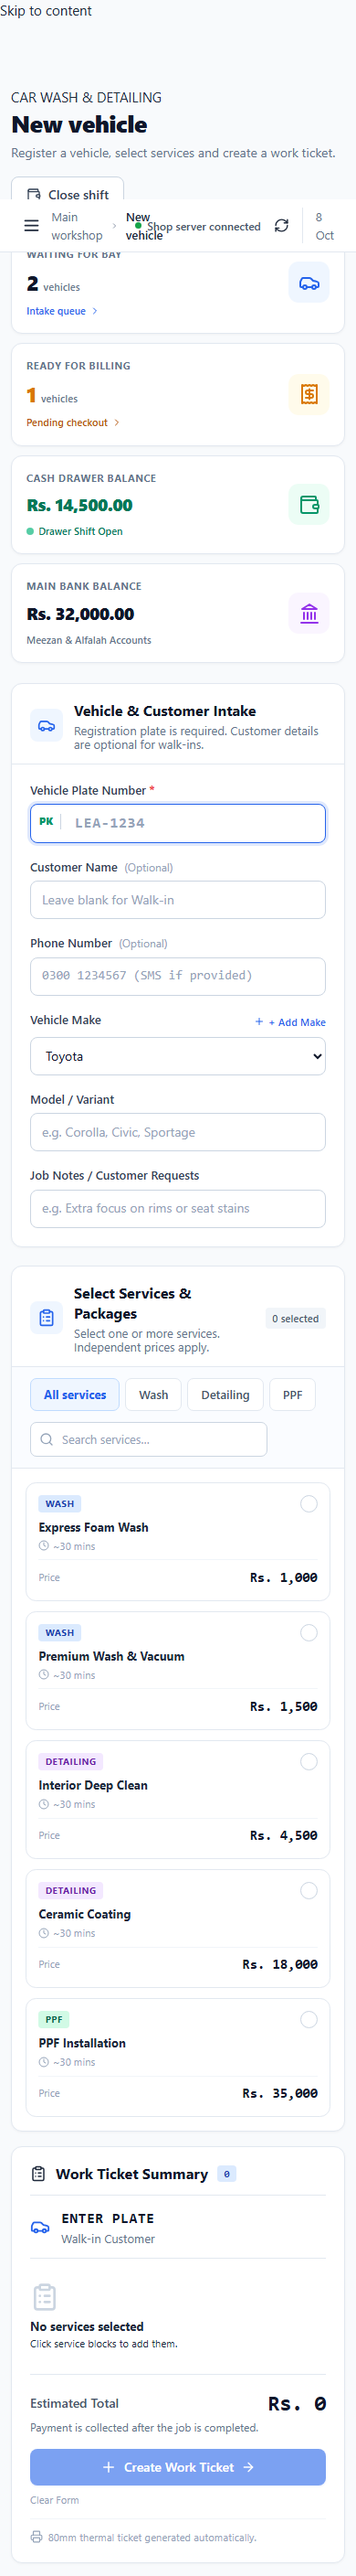
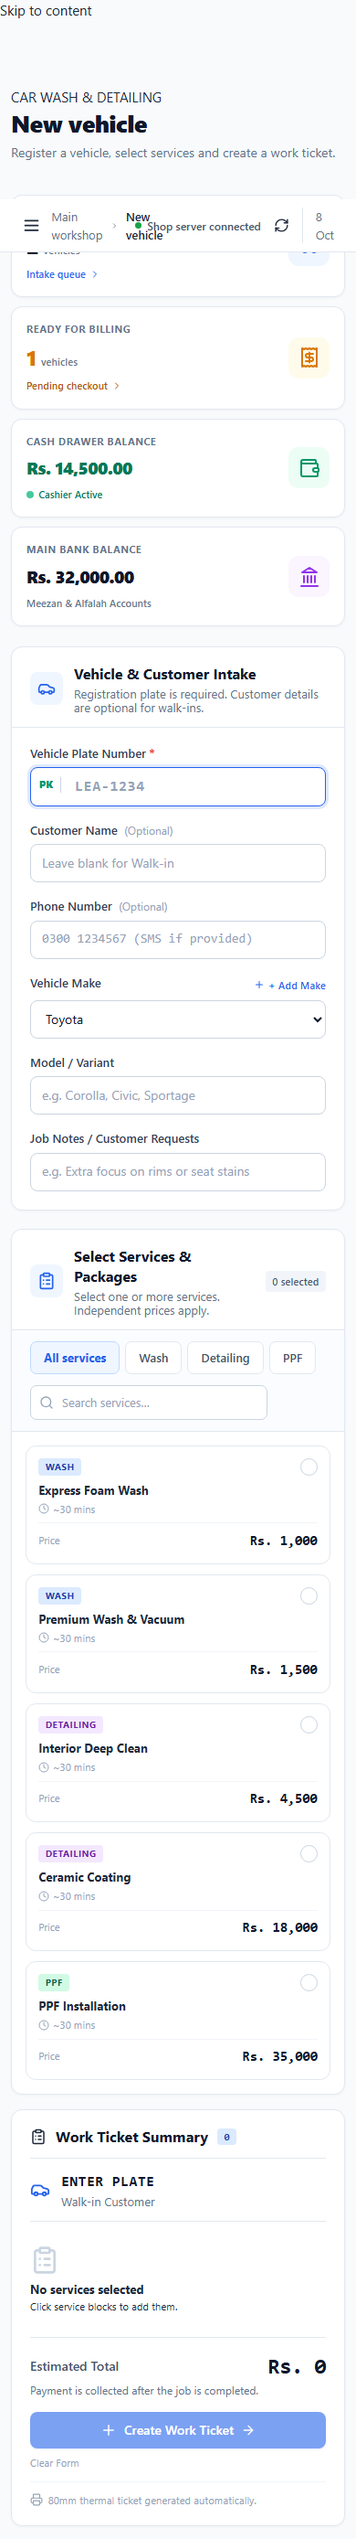
feat: simplify to single cashier mode, eliminate shift opening/closing popups and buttons

diff --git a/client/src/App.jsx b/client/src/App.jsx
@@ -70,7 +70,7 @@ export default function App() {
         bank: accounts.find((a) => a.account_type === 'Main_Bank')?.current_balance ?? 0,
         queued: bayRes.data.queue?.length || 0, ready: bayRes.data.ready_for_billing?.length || 0, register });
       setLastSync(new Date()); setSyncState('online');
-      setIsRegisterModalOpen(Boolean(isCashier && register && !register.is_open));
+      setIsRegisterModalOpen(false);
     } catch {
       if (requestRole === roleRef.current) setSyncState('offline');
     } finally { syncInFlight.current = false; }
@@ -98,7 +98,7 @@ export default function App() {
       <div className="app-workspace">
         <header className="app-topbar"><div className="flex items-center gap-3 min-w-0"><button className="icon-button mobile-only" aria-label="Open navigation" onClick={() => setMobileNav(true)}><Menu size={21} /></button><span className="breadcrumb">Main workshop <ChevronRight size={14} /> <strong>{page.title}</strong></span></div><div className="topbar-actions"><span className={`connection ${syncState === 'offline' ? 'connection-error' : ''}`} role="status"><i />{syncState === 'offline' ? 'Server unavailable' : syncState === 'loading' ? 'Connecting…' : 'Shop server connected'}</span><button className="icon-button" onClick={sync} aria-label="Refresh shop data" disabled={syncState === 'loading'}><RefreshCw size={17} className={syncState === 'loading' ? 'animate-spin' : ''} /></button><span className="topbar-date">{new Date().toLocaleDateString('en-GB', { day: 'numeric', month: 'short', timeZone: 'Asia/Karachi' })}</span></div></header>
         <main id="workspace-content" className="workspace-content" tabIndex={-1}>
-          <div className="workspace-heading"><div><span className="eyebrow">CAR WASH & DETAILING</span><h1>{page.title}</h1><p>{page.description}</p></div><div className="heading-actions">{isCashier && <button className="btn btn-secondary" disabled={!registerData || syncState === 'offline'} onClick={() => registerData?.is_open ? setIsCloseShiftModalOpen(true) : setIsRegisterModalOpen(true)}><Wallet size={16} />{registerData?.is_open ? 'Close shift' : 'Open shift'}</button>}{isCashier && activeTab !== 'intake' && <button className="btn btn-primary" onClick={() => navigate('intake')}><Plus size={17} />New vehicle</button>}</div></div>
+          <div className="workspace-heading"><div><span className="eyebrow">CAR WASH & DETAILING</span><h1>{page.title}</h1><p>{page.description}</p></div><div className="heading-actions">{isCashier && activeTab !== 'intake' && <button className="btn btn-primary" onClick={() => navigate('intake')}><Plus size={17} />New vehicle</button>}</div></div>
           {syncState === 'offline' && <div className="connection-notice" role="alert">Unable to reach the shop server. {lastSync ? `Showing the last update from ${lastSync.toLocaleTimeString()}.` : 'Check the server and local network.'} <button onClick={sync}>Try again</button></div>}
           {['intake', 'bays', 'billing'].includes(activeTab) && (
             <div className="workspace-summary grid grid-cols-1 sm:grid-cols-2 lg:grid-cols-4 gap-3 mb-6" id="executive-kpi-bar">
@@ -157,8 +157,7 @@ export default function App() {
               {/* Card 3: Cash Drawer Balance */}
               {isCashier ? (
                 <div
-                  onClick={() => (registerData?.is_open ? setIsCloseShiftModalOpen(true) : setIsRegisterModalOpen(true))}
-                  className="bg-white border border-slate-200/90 hover:border-emerald-400 rounded-xl p-4 shadow-sm hover:shadow-md transition-all cursor-pointer group flex items-center justify-between"
+                  className="bg-white border border-slate-200/90 rounded-xl p-4 shadow-sm hover:shadow-md transition-all flex items-center justify-between"
                 >
                   <div className="space-y-1">
                     <p className="text-[11px] font-bold tracking-wider uppercase text-slate-500">
@@ -170,11 +169,11 @@ export default function App() {
                       </span>
                     </div>
                     <p className="text-[11px] text-emerald-700 font-semibold flex items-center gap-1.5">
-                      <span className={`w-2 h-2 rounded-full ${registerData?.is_open ? 'bg-emerald-500 animate-pulse' : 'bg-slate-400'}`} />
-                      <span>{registerData?.is_open ? 'Drawer Shift Open' : 'Drawer Closed'}</span>
+                      <span className="w-2 h-2 rounded-full bg-emerald-500 animate-pulse" />
+                      <span>Cashier Active</span>
                     </p>
                   </div>
-                  <div className="w-12 h-12 rounded-xl bg-emerald-50 text-emerald-600 flex items-center justify-center flex-shrink-0 group-hover:scale-105 transition-transform shadow-xs">
+                  <div className="w-12 h-12 rounded-xl bg-emerald-50 text-emerald-600 flex items-center justify-center flex-shrink-0 shadow-xs">
                     <Wallet size={24} />
                   </div>
                 </div>

diff --git a/src/controllers/register.controller.js b/src/controllers/register.controller.js
@@ -17,11 +17,24 @@ async function getCurrentSessionHandler(req, res, next) {
     });
 
     if (!session) {
+      // Single cashier mode: till is permanently active and synced with live cash drawer ledger
+      const cashLedger = await prisma.ledger.findFirst({
+        where: { account_type: { in: ['Cash', 'Cash_Drawer'] } },
+      });
+      const currentCash = cashLedger ? parseFloat(cashLedger.current_balance) : 0;
       return res.status(200).json({
         status: 'success',
         data: {
-          is_open: false,
-          session: null,
+          is_open: true,
+          single_cashier_mode: true,
+          session: {
+            id: 'single-cashier-active',
+            status: 'OPEN',
+            opened_at: new Date(0),
+            starting_cash: currentCash,
+          },
+          starting_cash: currentCash,
+          expected_cash_in_drawer: currentCash,
         },
       });
     }
